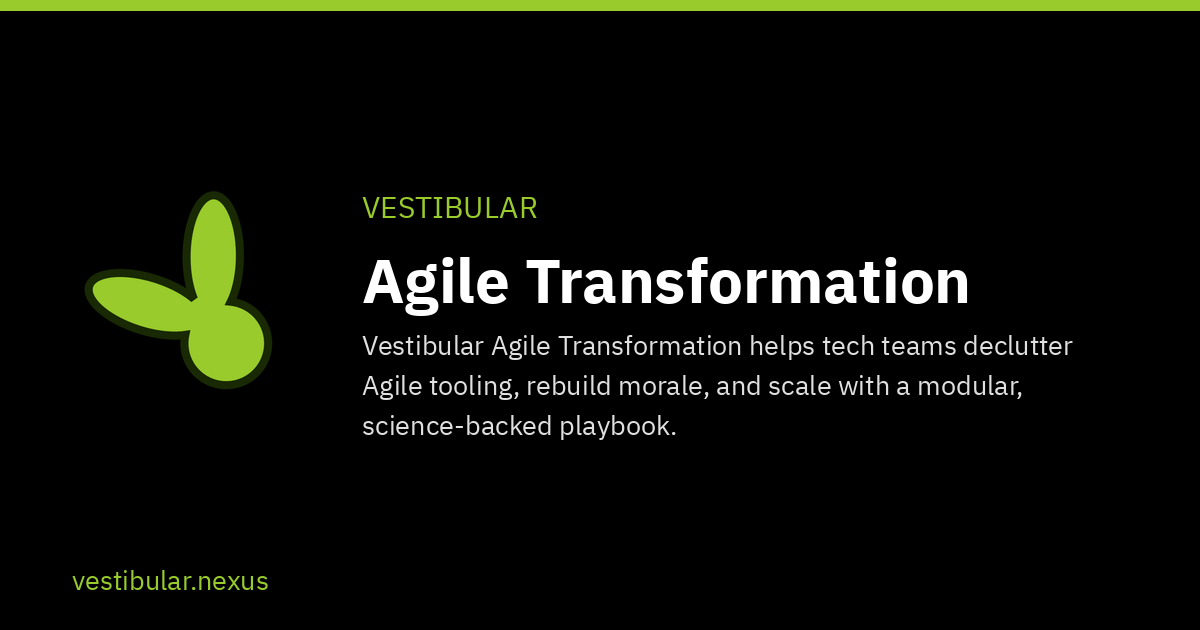
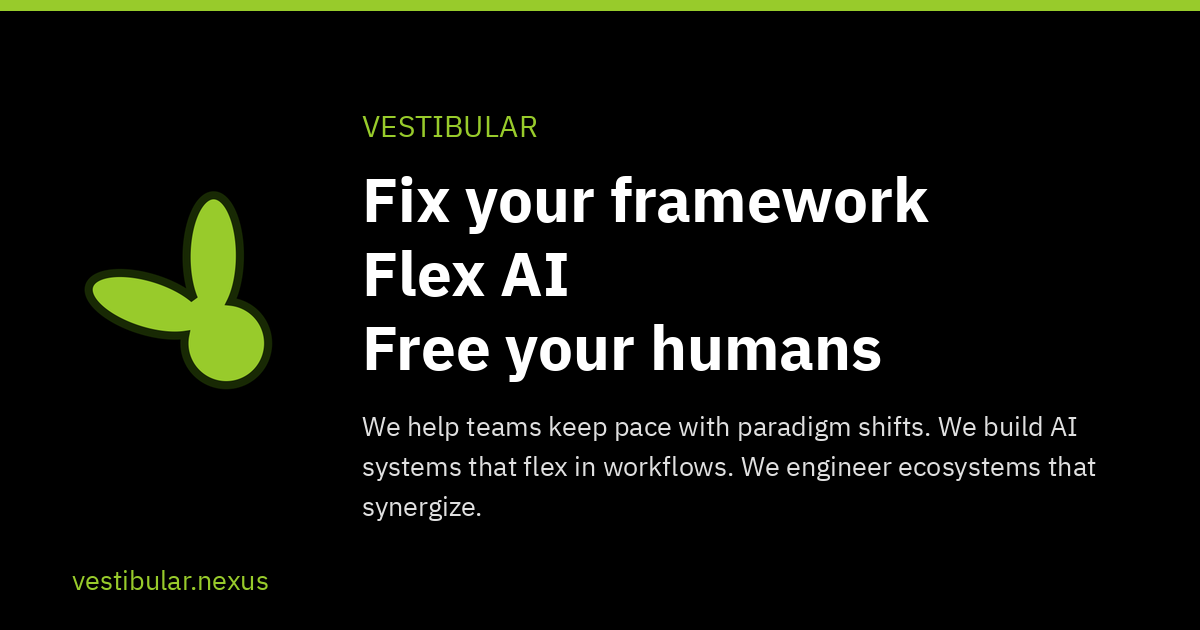
feat(hero): the hero copy becomes the SSOT, and the root card derives from it
Founder copy change, and the SSOT move it forced.

The new hero reads:

    Fix your framework.        Amplify the flow.
    Flex AI.                   From friction to fluid.
    Free your humans.          Architected systems that feel alive.

"Flex your AI" becomes "Flex AI", and the intro triplet reorders to lead with
"Amplify the flow."

Both hero blocks were hand-written in index.html and appeared NOWHERE in
content/. That was survivable while only the page spoke them. It stopped being
survivable the moment the root share card had to speak them too, because a card
is rendered by a different tool in a different language — quoting the hero
would have meant a second copy of the same sentences with nothing holding them
together. That is the shape that produced the stale ai-readiness card fixed in
the parent commit.

So content/practices.json gains brand.hero, and both consumers derive from it:

  - render_content.mjs writes GENERATED:hero_copy into index.html, so the
    drift check now covers the hero (60 region instances, was 59)
  - build_og_images.py derives the ROOT card's title and description from the
    same block: headline joined on " - ", lede verbatim

⭐ THE ROOT CARD IS THE ONE PAGE WHOSE CARD DOES NOT COME FROM ITS <title>, AND
THAT IS DELIBERATE. A root <title> has to carry the brand for a search result;
a share card is where the brand's own voice belongs. One string cannot do both.
[…]

diff --git a/index.html b/index.html
@@ -84,20 +84,22 @@
     </div>
 <!-- GENERATED:hero_logo END -->
     <div class="hero-content">
+    <!-- GENERATED:hero_copy START · source content/practices.json · regen: node tools/render_content.mjs · DO NOT EDIT BELOW -->
     <h1>
       <span>Fix your framework.</span><br />
-      <span>Flex your AI.</span><br />
+      <span>Flex AI.</span><br />
       <span>Free your humans.</span>
     </h1>
 
     <p class="highlighted-intro">
+      <span>Amplify the flow.</span><br />
       <span>From friction to fluid.</span><br />
-      <span>Architected systems that feel alive.</span><br />
-      <span>Amplify the flow.</span>
+      <span>Architected systems that feel alive.</span>
     </p>
     <p>
       <span>We help teams keep pace with paradigm shifts. We build AI systems that flex in workflows. We engineer ecosystems that synergize.</span>
     </p>
+<!-- GENERATED:hero_copy END -->
 
     <div class="cta-buttons">
       <a href="contact.html" class="btn">Book a Free Consult</a>

diff --git a/tools/build_og_images.py b/tools/build_og_images.py
@@ -53,6 +53,11 @@ PAGES = ROOT / "content" / "pages.json"
 LOGO = ROOT / "assets" / "vestibular_logo.svg"
 OUT_DIR = ROOT / "assets" / "og"
 MANIFEST = OUT_DIR / "manifest.json"
+PRACTICES = ROOT / "content" / "practices.json"
+
+# Phrase separator in a card title. Spaced so it cannot match a hyphenated word
+# ("AI-Transformational" must not become two phrases).
+SEPARATOR = " - "
 FONT_DIR = Path(os.environ.get("VN_FONT_DIR", "/tmp"))
 
 W, H = 1200, 630                 # Open Graph large-card canvas
@@ -89,6 +94,24 @@ def wrap(draw: ImageDraw.ImageDraw, text: str, font, max_w: int) -> list[str]:
     return lines
 
 
+def title_lines_for(page: str, draw, font, max_w: int, cap: int) -> list[str]:
+    """A title written as separated phrases breaks at its SEPARATORS, not
+    wherever the greedy wrapper runs out of pixels.
+
+    'Fix your framework - Flex AI - Free your humans' wrapped greedily into
+    'Fix your framework - Flex' / 'AI - Free your humans', splitting a phrase
+    across the break so it read as a typo. Phrases are the unit here.
+
+    A phrase too wide for one line still falls back to greedy wrapping rather
+    than overflowing the canvas, and the cap applies to the total either way.
+    """
+    parts = [seg.strip() for seg in page.split(SEPARATOR)] if SEPARATOR in page else [page]
+    lines: list[str] = []
+    for part in parts:
+        lines.extend(wrap(draw, part, font, max_w))
+    return lines[:cap]
+
+
 def split_title(title: str) -> tuple[str, str]:
     """Titles read 'Vestibular AI Transformation - Playbook'. The part after the
     dash is the page; the part before is the brand line above it."""
@@ -114,13 +137,18 @@ def build_card(page_file: str, title: str, description: str, logo: Image.Image) 
     f_desc = load_font("IBMPlexSans-Regular.ttf", 27)
 
     brand, page = split_title(title)
-    title_lines = wrap(draw, page, f_title, max_w)[:2]
+    title_lines = title_lines_for(page, draw, f_title, max_w, cap=3)
     desc_lines = wrap(draw, description, f_desc, max_w)[:3]
 
     # Measure the block, then centre it. Cards have between one and two title
     # lines and one to three description lines, so a fixed offset leaves the
     # short ones hanging off the top of a mostly empty canvas.
-    block_h = 44 + len(title_lines) * 74 + 18 + len(desc_lines) * 40
+    # The gap under the title is 14px, tuned when a title could be at most two
+    # lines. A stacked three-line triplet crowds the description at that value.
+    # Widened ONLY for the tall case: a flat 28px would restyle all eleven cards
+    # to fix one, and the other ten were not asked to move.
+    title_gap = 28 if len(title_lines) >= 3 else 14
+    block_h = 44 + len(title_lines) * 74 + title_gap - 14 + 18 + len(desc_lines) * 40
     y = (H - block_h) // 2
 
     draw.text((x, y), brand.upper(), font=f_brand, fill=LIME)
@@ -128,7 +156,7 @@ def build_card(page_file: str, title: str, description: str, logo: Image.Image) 
     for line in title_lines:
         draw.text((x, y), line, font=f_title, fill=TEXT)
         y += 74
-    y += 14
+    y += title_gap
     for line in desc_lines:
         draw.text((x, y), line, font=f_desc, fill=MUTED)
         y += 40
@@ -140,10 +168,59 @@ def build_card(page_file: str, title: str, description: str, logo: Image.Image) 
     return card
 
 
+def card_source(page_file: str, meta: dict, hero: dict) -> tuple[str, str, dict]:
+    """Where a card's words come from, and the record of it for the manifest.
+
+    Most cards take the page's own <title> and meta description, which is what
+    keeps a card from advertising something the page does not say.
+
+    index.html is the exception, deliberately. Its <title> has to carry the
+    brand for a search result — "Vestibular Agile & AI Transformation" — while
+    the card is the one surface where the brand's own voice belongs. Those are
+    different jobs and one string cannot do both well.
+
+    ⚠ THE EXCEPTION IS A DERIVATION, NOT A SECOND COPY. The root card's words
+    ARE the hero's words, transformed here and stored nowhere. Adding a
+    hand-written card_title field to pages.json instead would put the same
+    sentence in two files with nothing holding them together — which is exactly
+    how ai-readiness.png came to advertise an instrument that no longer existed.
+
+    Returns (title, description, source_record). The source record names the
+    file and path the values came from and carries the values verbatim, so
+    tools/test_og_cards.cjs can verify they have not moved WITHOUT having to
+    reimplement this transformation in another language.
+
+    ⚠ `path` is a LIST of keys, never a dotted string. Page keys are filenames
+    and contain dots, so "pages.services.html" splits into three keys and
+    resolves to nothing — caught the first time this ran over real data.
+    """
+    if page_file == "index.html":
+        return (
+            SEPARATOR.join(line.rstrip(".") for line in hero["headline"]),
+            hero["lede"],
+            {
+                "file": "content/practices.json",
+                "path": ["brand", "hero"],
+                "values": {"headline": hero["headline"], "lede": hero["lede"]},
+            },
+        )
+
+    return (
+        meta["title"],
+        meta["description"],
+        {
+            "file": "content/pages.json",
+            "path": ["pages", page_file],
+            "values": {"title": meta["title"], "description": meta["description"]},
+        },
+    )
+
+
 def main() -> None:
     if not PAGES.exists():
         sys.exit(f"FAIL: {PAGES} not found")
     pages = json.loads(PAGES.read_text())["pages"]
+    hero = json.loads(PRACTICES.read_text())["brand"]["hero"]
 
     OUT_DIR.mkdir(parents=True, exist_ok=True)
 
@@ -159,7 +236,7 @@ def main() -> None:
     manifest_cards = {}
 
     for page_file, meta in pages.items():
-        title, desc = meta["title"], meta["description"]
+        title, desc, source = card_source(page_file, meta, hero)
         # The description is written for search results and runs long. Trim at
         # a WORD boundary, never at punctuation: these descriptions lead with a
         # label ending in a colon, so splitting on punctuation left a fragment.
@@ -169,13 +246,12 @@ def main() -> None:
         out = OUT_DIR / f"{Path(page_file).stem}.png"
         card.save(out, "PNG", optimize=True)
 
-        # Record the SOURCE strings, not the trimmed/wrapped ones. The trim is
-        # deterministic from the source, so comparing sources is sufficient —
-        # and it keeps the checker from having to reimplement the trim in
-        # another language, which would be a second copy of the rule.
+        # `title`/`description` are what was DRAWN and are informational. The
+        # check reads `source`, because that is what can go stale.
         manifest_cards[page_file] = {
             "title": title,
             "description": desc,
+            "source": source,
             "sha256": hashlib.sha256(out.read_bytes()).hexdigest(),
         }
         print(f"  {out.relative_to(ROOT)}  {out.stat().st_size:,} B")
